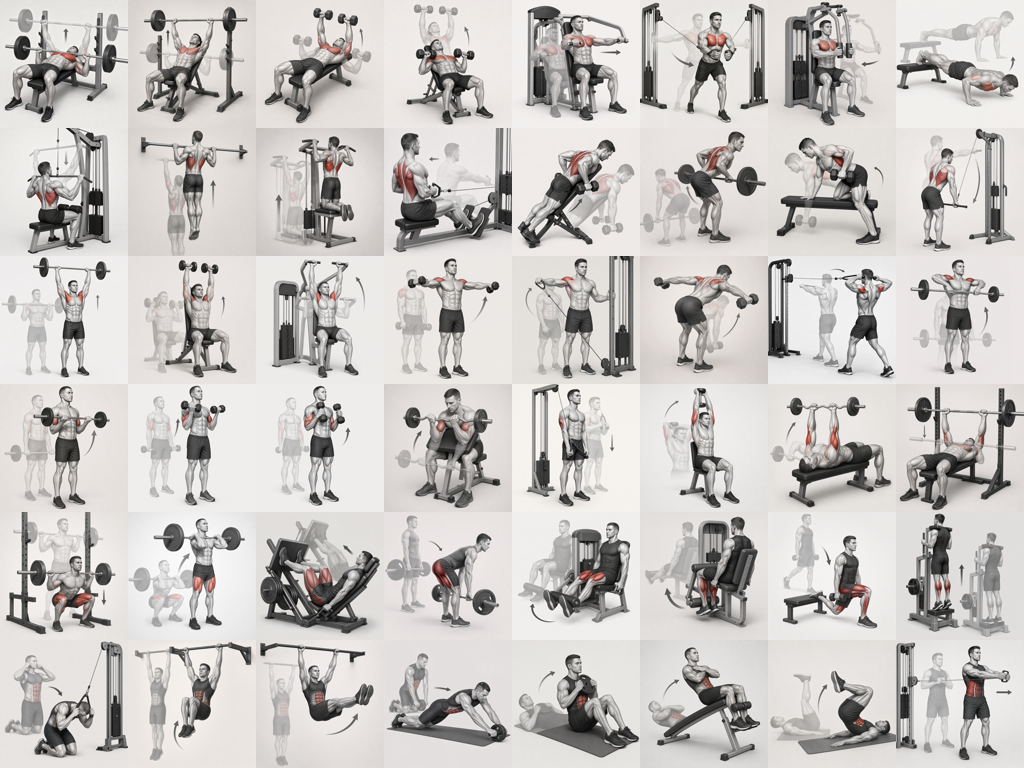
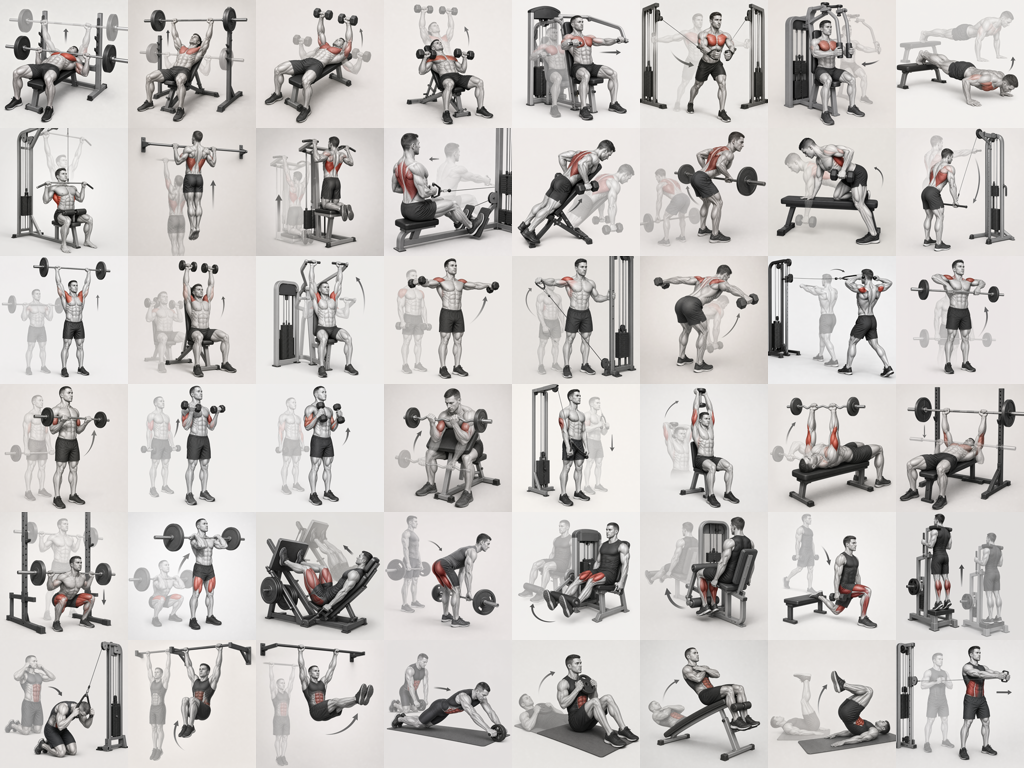
fix: correct lat pulldown anatomy asset

Changed region(s): [[0.0, 0.1562, 0.125, 0.3438]]

diff --git a/.superpowers/sdd/2026-08-14-trackz-02-exercise-catalog-media/task-5-report.md b/.superpowers/sdd/2026-08-14-trackz-02-exercise-catalog-media/task-5-report.md
@@ -62,3 +62,14 @@ All three are original, built-in `imagegen` Draft outputs. The original generate
 | Front Squat | `/Users/mikeyoshino/.codex/generated_images/01a00440-d8c1-7961-b4d6-2be3f8faa8d8/exec-4177da00-a46c-446a-b243-b6b9208e9f62.png` | `assets/exercises/images/front-squat.png` | Grayscale scientific anatomy illustration; clean front rack and elbows high; every plate completely plain and unbranded with no embossed glyphs, letters, numbers, markings, or logos; no text/glyphs/watermarks. |
 
 `assets/exercises/contact-sheet.png` was rebuilt from manifest-order source files as eight columns by six body-part rows (1024×768). It is a Draft review aid only. No artwork was marked Reviewed or Published, and no product-owner, anatomy, or rights decision was recorded.
+
+## Round 2/5 — Lat Pulldown Draft replacement
+
+- Built-in `imagegen` generated a fresh replacement with **no input/reference image**: `/Users/mikeyoshino/.codex/generated_images/01a00440-d8c1-7961-b4d6-2be3f8faa8d8/exec-a3f0ad1a-ec74-4234-b6bd-083446a9e7d0.png`.
+- Actual prompt: strict front-left three-quarter scientific-educational view with face and sternum visible; solid wide-overhand bar entirely in front of forehead, face, chin, neck, and shoulders, finishing at upper chest/clavicle below chin; vertical cable, elbows beside ribs, thighs secured, upright slight-lean torso; ghosted same-bar start overhead. Explicit negatives: no rear camera, no behind-neck bar, no upper-back/trapezius contact, no text/glyphs/logos.
+- Direct original-detail inspection accepted the generation: its finished bar is below the chin at the clavicle and visually in front of the face/body; the ghosted bar is directly overhead. It has no embedded text/glyphs/logos.
+- `sips -z 1024 1024` wrote the stable Draft replacement at `assets/exercises/images/lat-pulldown.png`; the generated original remains retained at the source path above.
+- Rebuilt `assets/exercises/contact-sheet.png` in manifest order (8 columns × 6 rows), then visually checked the Back-row Lat Pulldown card.
+- `dotnet test tests/TrackZ.Infrastructure.Tests --filter "FullyQualifiedName~ExerciseCatalogManifestTests&Category=Asset" --no-restore --verbosity minimal`: PASS — 1 passed, 0 failed.
+
+The asset remains `Draft`; no review, anatomy approval, rights approval, reviewer, timestamp, or publication state was created.
